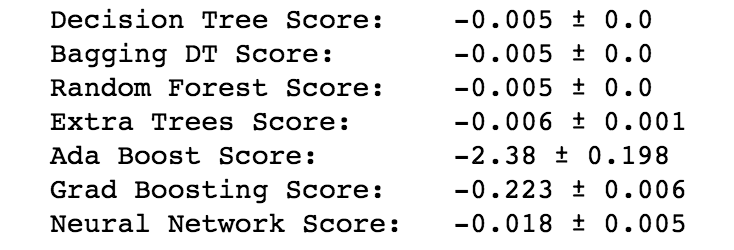
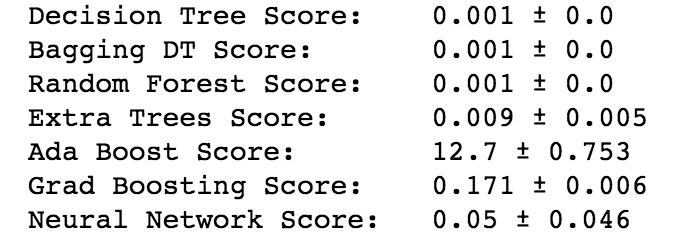
table

diff --git a/_posts/2015-08-30-liqour.md b/_posts/2015-08-30-liqour.md
@@ -22,36 +22,41 @@ date: "30 October 2016"
 
 ### Introduction
 
-The goal of this project was to build a profitability model based on total spirits sales in Iowa of individual products at the store level. Since it is a very large data set, only ten percent of the data was retrieved from [the Iowa website](https://data.iowa.gov/Economy/Iowa-Liquor-Sales/m3tr-qhgy). The dataset contains the spirits purchase information of Iowa Class “E” liquor licensees by product and date of purchase. For the variables’ description, please visit [the Iowa website](https://data.iowa.gov/Economy/Iowa-Liquor-Sales/m3tr-qhgy).
+The goal of this project was to build a profitability model based on total spirits sales in Iowa at the store level. Since it is a very large data set, only ten percent of the data was retrieved from [the Iowa website](https://data.iowa.gov/Economy/Iowa-Liquor-Sales/m3tr-qhgy). The dataset contains the spirits purchase information of Iowa Class “E” liquor licensees by product and date of purchase. For the variables’ description, please visit [the Iowa website](https://data.iowa.gov/Economy/Iowa-Liquor-Sales/m3tr-qhgy).
 
-The data contains total sale of liquor ordered per transaction bought by each store from the state of Iowa. That is right. The data does not contain total sale of liquor for each transaction made by customers in each store. Thus, while exploring the data, a very important assumption was made that owners in Iowa are knowledgeable business people, and they only stock what they sell. I really hope so, otherwise they would probably go out of business. In addition to the data I had, two new variables were created: Store (a number of stores per each zip code) and Vendor (a number of vendors per each zip code).
+The data contains total sale of liquor ordered per transaction bought by each store from the state of Iowa. That is right. The data does not contain total sale of liquor for each transaction made by customers in each store. Thus, while exploring the data, a very important assumption was made that owners in Iowa are knowledgeable business people, and they only stock what they sell. I really hope so, otherwise they would probably go out of business. In addition to the data I had, two new variables were created: Store (a number of stores per each zip code) and Vendor (a number of vendors per each zip code). 
 
 
 ### Multiple Regression Model
 
-Since the outcome variable Sale is continuous, a multiple regression model was built. I used stepwise approach in building the regression model. However, first and foremost, I looked at average sales per transaction that are outliers. As seen below from the histogram and Q-Q plot, average costs per transaction that exceed $250 were exceptions. 
+Since the outcome variable Sale is continuous, a multiple regression model was built. I used stepwise approach in building the regression model. However, first and foremost, I looked at average sales per transaction that are outliers. As seen below from the 
+[histogram](https://en.wikipedia.org/wiki/Histogram) and [Q-Q plot]9https://en.wikipedia.org/wiki/Q%E2%80%93Q_plot), average costs per transaction that exceeded $250 were exceptions. 
 
 
 ![Histogram and QQ Plot With Outliers]({{ site.url }}{{ site.baseurl }}/images/pic2_1.png){: .align-center} 
 
 
-After removing the outliers, the distribution of average cost per transaction looked much closer to normal distribution. See the histogram and Q-Q plot below.
+After removing the outliers, the distribution of average cost per transaction looked much closer to [normal distribution](https://en.wikipedia.org/wiki/Normal_distribution). See the histogram and Q-Q plot below.
 
 
 ![Histogram and QQ Plot Without Outliers]({{ site.url }}{{ site.baseurl }}/images/pic2_2.png){: .align-center} 
 
 
-Finally, I got to conduct a stepwise regression to select my final linear regression model. Stepwise regression is a method of fitting regression models step-by-step. In each step, I consider a variable for addition to or subtraction from the set of all variable based on an adjusted R-squared.  If saw no changes in an adjusted R-squared, I would not include that variable into the statistical model. I also looked at multicollearity, the highly correlated independent variables were removed from the model. I excluded variable Cost (cost per transaction) from my data set as it was the same as variable Retail (retail price per transaction) but multiplied by Sold (a number of bottles sold), so naturally I expected Cost and Retail to be highly correlated. Because Store (a number of stores per each zip code) and Vendor (a number of vendors per each zip code) highly correlated (r=.73), I removed Store out of my model. I also checked whether Store affected in anyway the adjusted R-squared and found no changes there. 
+Finally, I got to conduct a [stepwise regression](https://en.wikipedia.org/wiki/Stepwise_regression) to select my final linear regression model. Stepwise regression is a method of fitting regression models step-by-step. In each step, I consider a variable for addition to or subtraction from the set of all variable based on an adjusted R-squared. If I saw no changes in an adjusted R-squared, I would not include that variable into the statistical model. I also looked at multicollearity, the highly correlated independent variables were removed from the model. 
 
 
 ![Correlational Matrix]({{ site.url }}{{ site.baseurl }}/images/pic2_3.png){: .align-center}
 
 
-Since the variable Month did not predict Sale, the final model excluded the month when liquor was purchased. Consequentially, I adjusted density of the data points by removing category Month from my data. As seen next, regrouping the data substantially decreased MSE (mean squared error) of the final regression model.
+I excluded variable Cost (cost per transaction) as it was highly correlated with Retail (retail price per transaction). Because Store (a number of stores per each zip code) and Vendor (a number of vendors per each zip code) highly correlated (r=.73), I also removed Store out of my model. Additionally, I checked whether Store affected in anyway the adjusted R-squared and found no changes there. 
+
+Since the variable Month did not predict Sale, the final model excluded the month when liquor was purchased. Consequentially, I adjusted density of the data points by removing category Month from my data. 
 
 
 ![Scatters for Density]({{ site.url }}{{ site.baseurl }}/images/pic2_4.png){: .align-center}
 
+
+After regrouping the data [MSE (mean squared error)](https://en.wikipedia.org/wiki/Mean_squared_error) of the final regression model was substantially decreased.
 
 As seen in the regression table below, all independent variables positively and significantly predicted average sale per transaction. Sale per transaction increased as Retail (retail price per bottle), Sold (a number of bottles sold), Vendor (a number of vendors per zip code), and Volume (bottle volume) increased. All categories of liquor (expect schnapps) significantly predicted sale per transaction compared to brandy (the baseline category). 
 
@@ -67,21 +72,20 @@ The scatter plot and OLS line for predictions vs. average sale per transaction d
 
 ### Assumptions of Linear Regression
 
-Before finalizing the final model, we need to check whether our regression model meets four linear regression assumptions: 1) linearity and additivity of the relationship between dependent and independent variables, 2) statistical independence of the errors, 3) normality of the error distribution, and 4) homoscedasticity (constant variance) of the errors.
-
-As the residuals vs. fitted values plot below indicates, there is a linear relationship between predictive values and sale. The Durbin – Watson (DW) statistics in the table above indicates that the regression model has a very slight positive autocorrelation with DW =1.70, but this value is not large enough to discard the model.  Thus, we can say that the final regression model met the assumption of statistical independence. The probability plot of residuals and the histogram of residuals bellow demonstrates no indication of abnormal distribution of errors. However, the residuals vs. fitted values plot obviously signals the presence of homoscedasticity as indicated by the funnel shape of the scatter points.
+Before finalizing the final model, I checked whether the regression model meets 4 linear regression assumptions: 1) linearity and additivity of the relationship between dependent and independent variables, 2) statistical independence of the errors, 3) normality of the error distribution, and 4) homoscedasticity (constant variance) of the errors.
 
 
 ![Regression Assumptions]({{ site.url }}{{ site.baseurl }}/images/pic2_6.png){: .align-center}
 
 
-Before finalizing the final model, we need to check whether our regression model meets four linear regression assumptions: 1) linearity and additivity of the relationship between dependent and independent variables, 2) statistical independence of the errors, 3) normality of the error distribution, and 4) homoscedasticity (constant variance) of the errors.
+As the residuals vs. fitted values plot below indicates, there is a little skewness in linear relationship between predicted values and sale, but it is not large enough to discard the model. The Durbin – Watson (DW) statistics in the table above indicates that the regression model has a very slight positive autocorrelation with DW =1.70, but this value is also not large enough to discard the model.  Thus, we can say that the final regression model met the assumptions of linearity and statistical independence. The probability plot of residuals and the histogram of residuals bellow demonstrates no indication of abnormal distribution of errors. However, the residuals vs. fitted values plot obviously signals the presence of homoscedasticity as indicated by the funnel shape of the scatter points.
 
-As the residuals vs. fitted values plot below indicates, there is a linear relationship between predictive values and sale. The Durbin – Watson (DW) statistics in the table above indicates that the regression model has a very slight positive autocorrelation with DW =1.70, but this value is not large enough to discard the model.  Thus, we can say that the final regression model met the assumption of statistical independence. The probability plot of residuals and the histogram of residuals bellow demonstrates no indication of abnormal distribution of errors. However, the residuals vs. fitted values plot obviously signals the presence of homoscedasticity as indicated by the funnel shape of the scatter points.
+Since the final regression model did not meet the assumptions of homoscedasticity and barely met the assumptions of the assumptions of linearity and statistical independence, it could not be used as a final profitability model for Iowa liquor stores. Instead, I ran and cross-validated several non-parametric repressors: Decision Tree, Bagging DT, Random Forest, Ada Boost, Gradient Boosting, and Neural Network. I used MSE as a cross-validation score, and there were some fluctuations in the scores. As seen below, ada boost algorithm yielded slightly lower accuracy score than the other algorithms.
+ 
 
-Since the final regression model did not meet the assumptions of homoscedasticity, it could not be used as a final profitability model for the Iowa liquor stores. Instead, I ran and cross-validated several non-parametric repressors: Decision Tree, Bagging DT, Random Forest, Ada Boost, Gradient Boosting, and Neural Network. I used Negative Absolute Median Error (NAME) as the cross-validation score, and there were some fluctuations in the score. As seen below, ada boost algorithm yielded slightly lower accuracy score than the other algorithms. 
-
+<figure style="width: 300px" class="align-center">
 ![Table with Scores]({{ site.url }}{{ site.baseurl }}/images/table2_2.png){: .align-center}
+</figure>
 
 
 I chose the decision tree repressor and ada boost repressor as my final non-parametric profitability models. The decision tree model was one of my choices because in spite of its propensity to overfitting, it is the easiest model to use and interpret (after the linear regression), performs well with a large set of data, has higher training and prediction speed.

diff --git a/_posts/2016-05-30-titanic.md b/_posts/2016-05-30-titanic.md
@@ -1,6 +1,6 @@
 ---
 title: "Predicting Survival on the Titanic"
-excerpt: "This post completes a predictive analysis of who were likely to survive on the Titanic"
+excerpt: "This post conducts a predictive analysis of who were likely to survive on the Titanic"
 header:
   overlay_image: titanic5.jpg
   overlay_filter: 0.4
@@ -22,7 +22,7 @@ date: "15 October 2016"
 
 ### Introduction
 
-[RMS Titanic]9https://en.wikipedia.org/wiki/RMS_Titanic) was a British passenger liner that sank on April 15, 1912 on his way to New York. It perhaps was the most infamous shipwreck in the world history. The Titanic sank after colluding with an iceberg killing 1502 out of 2224 people, including passengers and crew. The Titanic data set obtained from [Kaggle](https://www.kaggle.com/c/titanic/data) contains data for only 891 passengers of the Titanic who either survived or died during the disaster. This is a basic Kaggle data set that can be approached with a challenge and creativity. The data set contains the information about age, sex, passengers class, family on-board, ticket number, ticket price, where passengers boarded the ship, and cabins location. The ultimate goal here was to get the highest possible accuracy score and achieve ranking of top 10% in Kaggle competition.
+[RMS Titanic](https://en.wikipedia.org/wiki/RMS_Titanic) was a British passenger liner that sank on April 15, 1912 on his way to New York. It perhaps was the most infamous shipwreck in the world history. The Titanic sank after colluding with an iceberg killing 1502 out of 2224 people, including passengers and crew. The Titanic data set obtained from [Kaggle](https://www.kaggle.com/c/titanic/data) contains data for only 891 passengers of the Titanic who either survived or died during the disaster. This is a basic Kaggle data set that can be approached with a challenge and creativity. The data set contains the information about age, sex, passengers class, family on-board, ticket number, ticket price, where passengers boarded the ship, and cabins location. The ultimate goal here was to get the highest possible accuracy score and achieve ranking of top 10% in Kaggle competition.
 
 ### Analysis Overview and Strategy
 
@@ -94,7 +94,7 @@ Before conducting model selection and evaluation, several imputations were emplo
 
 I used several advanced imputation techniques to impute the continuous variable Age. I am a very strong opponent of using mean or median imputation to impute data. It is very bad practice in general as it leads to distortion of relationship between variables by pulling estimates of the correlation towards zero. Thus, I applied 4 advanced techniques to impute the Titanic data: 1) KNN, 2) Convex Optimization, 3) Spectral Regulation Algorithm, and 4) Multiple Imputations by Chain Equations or MICE. 
 
-To compare across the imputation algorithms, I [used root-mean-square error (RMSE)](https://en.wikipedia.org/wiki/Root-mean-square_deviation), replicating work by Schmitt, Mandel, and Guedj (2015). This method, however, did not bring me any success as I found no variations in imputation techniques detected by RMSE. Thus, I performed a model comparison (for review see Schmitt, Mandel, & Guedj, 2015) by comparing accuracy scores of various algorithms. See python codes and outputs here. I finally chose the KNN imputation technique as it gave me the highest accuracy scores across the algorithms. 
+To compare across the imputation algorithms, I used [root-mean-square error (RMSE)](https://en.wikipedia.org/wiki/Root-mean-square_deviation), replicating work by Schmitt, Mandel, and Guedj (2015). This method, however, did not bring me any success as I found no variations in imputation techniques detected by RMSE. Thus, I performed a model comparison (for review see Schmitt, Mandel, & Guedj, 2015) by comparing accuracy scores of various algorithms. See python codes and outputs here. I finally chose the KNN imputation technique as it gave me the highest accuracy scores across the algorithms. 
 
 Further, I compared the accuracy scores across various algorithms (Decision Tree, Logistic Regression, Bagging DT, Random Forest, Extra Trees, Ada Boost, Gradient Boosting, Bernoulli NB, and KNN ) and various statistical models (models with/without various interactions) for the imputed data set and for the original data set. My final choice was the statistical model with Fare-by-Sex interaction with KNN imputation and the Gradient Boosting Algorithm.
 
@@ -119,6 +119,7 @@ Achieving 98.64% accuracy on 40% of the Titanic test data is quite impressive. T
 {% capture notice-2 %}
 #### REFERENCES
 
+
 Acuna, Edgar, and Caroline Rodriguez. "The treatment of missing values and its effect on classifier accuracy." Classification, clustering, and data mining applications (2004): 639-647.
 
 Azur, Melissa J., et al. "Multiple imputation by chained equations: what is it and how does it work?." International journal of  methods in psychiatric research 20.1 (2011): 40-49.
@@ -137,7 +138,14 @@ Schmitt, Peter, Jonas Mandel, and Mickael Guedj. "A comparison of six methods fo
 </div>
 
 
+{% capture notice-2 %}
+#### New Site Features
 
+* You can now have cover images on blog pages
+* Drafts will now auto-save while writing
+{% endcapture %}
+
+<div class="notice">{{ notice-2 | markdownify }}</div>
 
 
 
